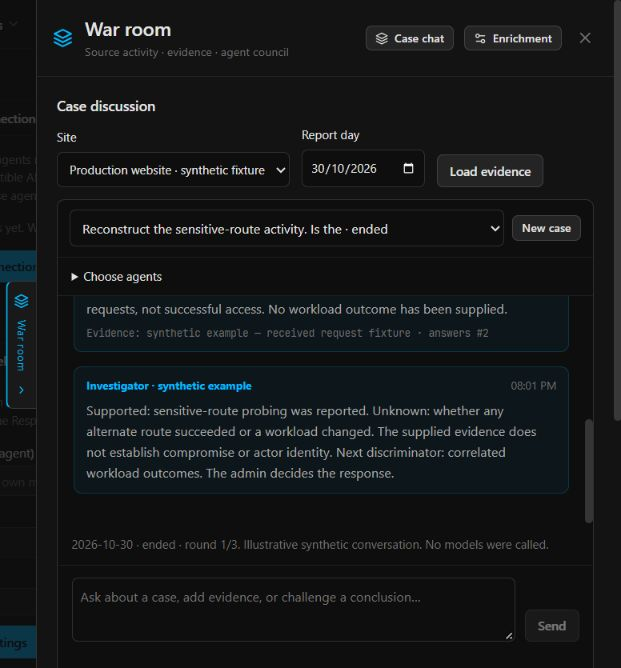
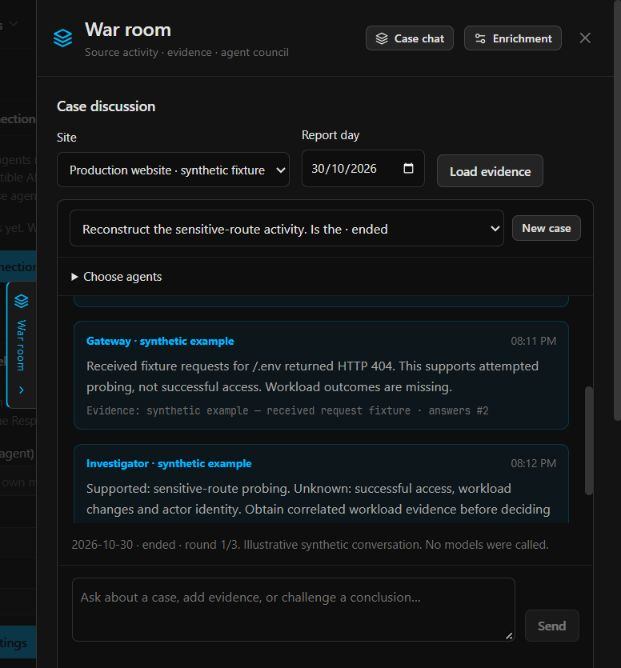
docs: refresh native War room chat preview

diff --git a/docs/warroom-council.md b/docs/warroom-council.md
@@ -37,7 +37,7 @@ Source turns return a small JSON contribution: `kind` (`evidence`, `answer`,
 Accepted facts need references actually returned by that job's broker, in the form
 `event:<sequence>` or `record:<source>:<kind>:<id>`. The hub records at most 256
 reference keys per grant, outside the analytics database. Chat entries are capped
-at 2.4 KiB including JSON escaping; long model text is marked as an excerpt with
+at 2,400 bytes including JSON escaping; long model text is marked as an excerpt with
 a link to the full native report. Oversized admin messages are rejected before
 admission rather than silently shortened. A source contribution
 has at most eight references, four addressed entries and 2,000 bytes of text.
